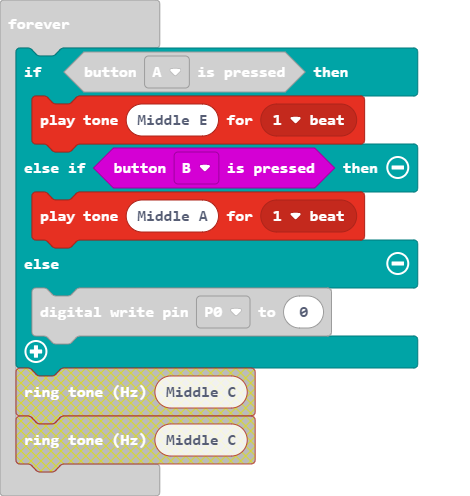
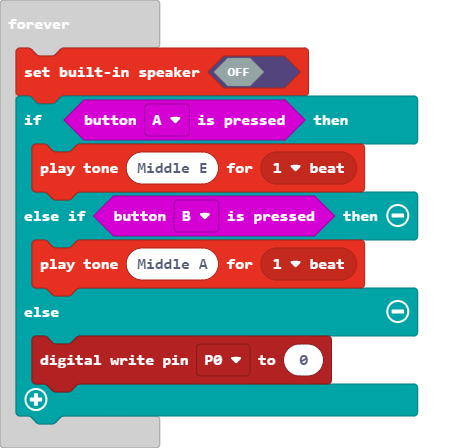
Update main.blocks, main.ts

diff --git a/main.ts b/main.ts
@@ -1,4 +1,5 @@
 basic.forever(function () {
+    music.setBuiltInSpeakerEnabled(false)
     if (input.buttonIsPressed(Button.A)) {
         music.playTone(330, music.beat(BeatFraction.Whole))
     } else if (input.buttonIsPressed(Button.B)) {
